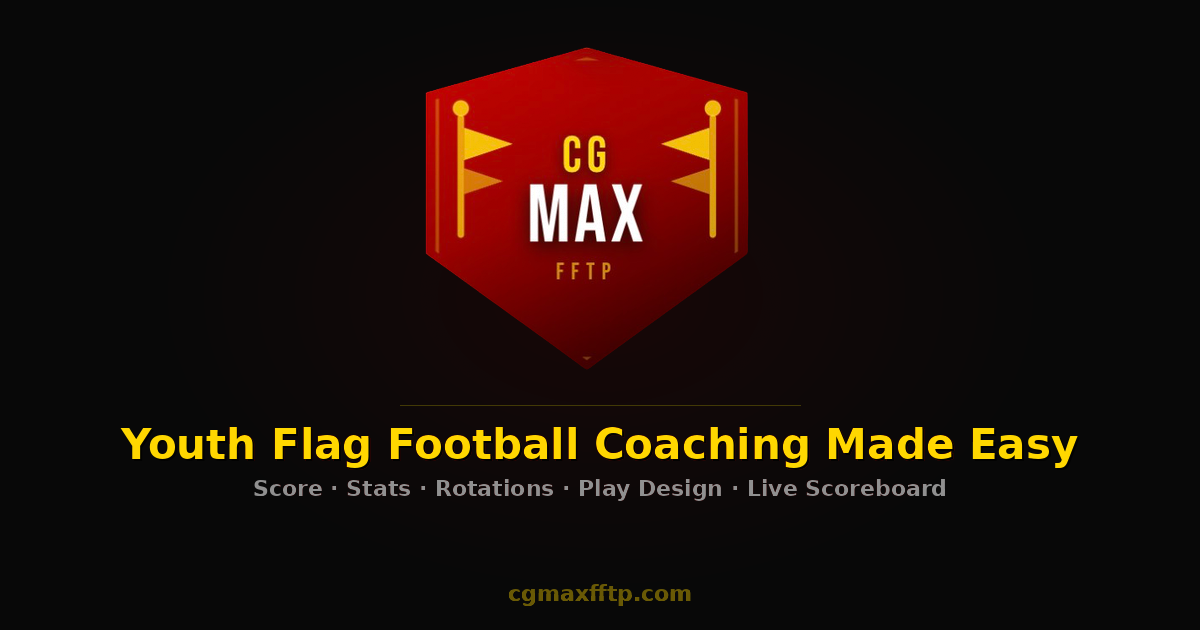
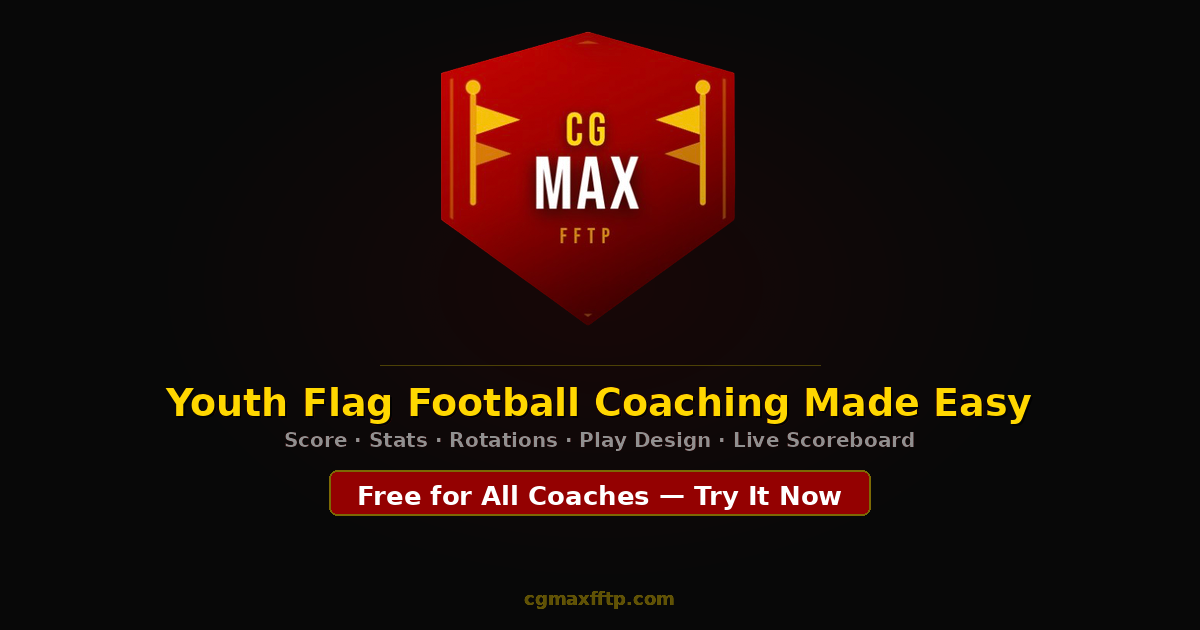
Add files via upload

Changed region(s): [[0.0925, 0.0302, 0.8942, 0.8444], [0.4317, 0.9349, 0.5858, 0.9651]]

diff --git a/app.html b/app.html
@@ -4002,11 +4002,7 @@ function submitGateCode(){
       if(btn)btn.textContent='⭐ PRO UNLOCKED!';
       if(err){err.style.color='#22C55E';err.textContent='PRO activated! Welcome, Coach.';}
       vibe([30,15,30,15,50]);
-      try{document.querySelectorAll('.pro-badge').forEach(function(b){b.style.display='none';});}catch(e){}
-      try{
-        var pb=document.getElementById('pro-hdr-btn');
-        if(pb){pb.textContent='✅ PRO';pb.classList.add('unlocked');pb.onclick=null;pb.title='Pro is active';}
-      }catch(e){}
+      updateProUI();
       setTimeout(hideGate,1200);
     } else {
       if(btn)btn.textContent='⭐ UNLOCK PRO';
@@ -4039,22 +4035,8 @@ var _origOnload=window.onload;
 window.onload=function(){
   if(_origOnload)_origOnload();
   initGate();
-  // If already Pro, show the button as active
-  try{
-    if(localStorage.getItem('ff_pro_v1')==='unlocked'){
-      var pb=document.getElementById('pro-hdr-btn');
-      if(pb){pb.textContent='✅ PRO';pb.classList.add('unlocked');pb.onclick=null;pb.title='Pro is active';}
-      document.querySelectorAll('.pro-badge').forEach(function(b){b.style.display='none';});
-      // Hide setup screen pro strip when already unlocked
-      var strip=document.getElementById('setup-pro-strip');
-      if(strip){
-        var sd=strip.querySelector('div');
-        if(sd){sd.textContent='✅ PRO ACTIVE';sd.style.color='#22C55E';}
-        var sbtn=document.getElementById('setup-pro-btn');
-        if(sbtn)sbtn.style.display='none';
-      }
-    }
-  }catch(e){}
+  // If already Pro, update all UI elements
+  if(isPro()) updateProUI();
 };
 
 /* ════════════════════════════════════════════════════════════
@@ -4066,6 +4048,26 @@ var VALIDATE_URL='https://cgmax-fftp-backend.vercel.app/api/validate-license';
 
 function isPro(){
   return localStorage.getItem(LS_PRO)==='unlocked';
+}
+
+// Central function — updates ALL pro-related UI in one place.
+// Called from: submitGateCode, proUnlockWithCode, and window.onload.
+function updateProUI(){
+  try{
+    // Hide all PRO badges on gated features
+    document.querySelectorAll('.pro-badge').forEach(function(b){b.style.display='none';});
+    // Update header button
+    var pb=document.getElementById('pro-hdr-btn');
+    if(pb){pb.textContent='✅ PRO';pb.classList.add('unlocked');pb.onclick=null;pb.title='Pro is active';}
+    // Update setup screen strip
+    var strip=document.getElementById('setup-pro-strip');
+    if(strip){
+      var sd=strip.querySelector('div');
+      if(sd){sd.textContent='✅ PRO ACTIVE';sd.style.color='#22C55E';}
+      var sbtn=document.getElementById('setup-pro-btn');
+      if(sbtn)sbtn.style.display='none';
+    }
+  }catch(e){}
 }
 
 function proGate(feature,callback){
@@ -4112,19 +4114,7 @@ function proUnlockWithCode(code){
       closeProModal();
       showToast('⭐ Pro unlocked! Enjoy all features.');
       vibe([30,15,30,15,50]);
-      try{document.querySelectorAll('.pro-badge').forEach(function(b){b.style.display='none';});}catch(e){}
-      // Hide/dim the PRO header button once unlocked
-      try{var pb=document.getElementById('pro-hdr-btn');if(pb){pb.textContent='✅ PRO';pb.classList.add('unlocked');pb.onclick=null;pb.title='Pro is active';}}catch(e){}
-      // Update setup screen pro strip
-      try{
-        var strip=document.getElementById('setup-pro-strip');
-        if(strip){
-          var sd=strip.querySelector('div');
-          if(sd){sd.textContent='✅ PRO ACTIVE';sd.style.color='#22C55E';}
-          var sbtn=document.getElementById('setup-pro-btn');
-          if(sbtn)sbtn.style.display='none';
-        }
-      }catch(e){}
+      updateProUI();
       if(typeof _proCallback==='function'){_proCallback();_proCallback=null;}
     } else {
       showToast('❌ Invalid or expired license key');

diff --git a/index.html b/index.html
@@ -7,15 +7,15 @@
 <meta name="apple-mobile-web-app-capable" content="yes">
 <meta name="apple-mobile-web-app-status-bar-style" content="black-translucent">
 <meta name="description" content="CGMax FFTP — Flag Football Tracker Pro. The complete youth flag football coaching app. Live stats, smart rotations, MVP rankings, season history — works offline on any phone.">
-<meta property="og:title" content="CGMax FFTP — Flag Football Tracker Pro">
-<meta property="og:description" content="The ultimate youth flag football coaching app. Live scoring, stats, rotations, play designer, tournament brackets, and more.">
+<meta property="og:title" content="CGMax FFTP — Youth Flag Football Coaching Made Easy">
+<meta property="og:description" content="The #1 free coaching app for youth flag football. Live scoring, smart rotations, play designer, tournament brackets, and a live parent scoreboard.">
 <meta property="og:type" content="website">
 <meta property="og:url" content="https://cgmaxfftp.com">
 <meta property="og:image" content="https://cgmaxfftp.com/og-banner.png">
 <meta property="og:image:width" content="1200">
 <meta property="og:image:height" content="630">
 <meta name="twitter:card" content="summary_large_image">
-<meta name="twitter:title" content="CGMax FFTP — Flag Football Tracker Pro">
+<meta name="twitter:title" content="CGMax FFTP — Youth Flag Football Coaching Made Easy">
 <meta name="twitter:description" content="The ultimate youth flag football coaching app.">
 <meta name="twitter:image" content="https://cgmaxfftp.com/og-banner.png">
 <title>CGMax FFTP — Flag Football Tracker Pro</title>
